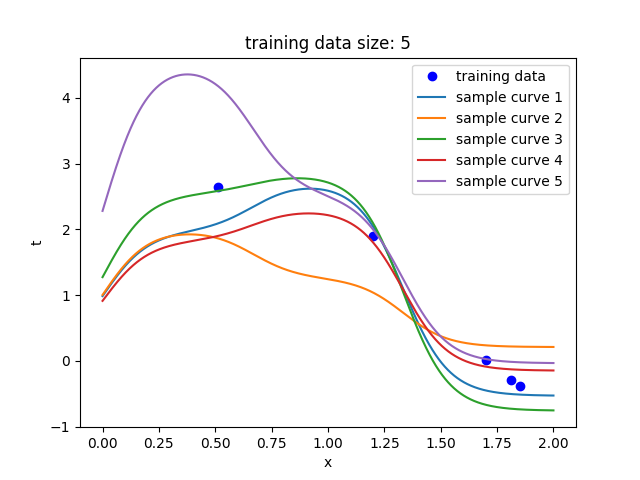
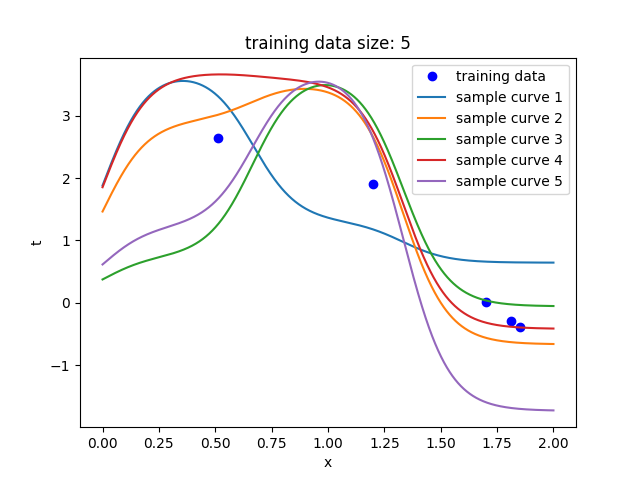
test

diff --git a/bayesian_regression.py b/bayesian_regression.py
@@ -30,7 +30,7 @@ def bayesian_regression(X,T):
     m_N=(S_N@((S_0_inv@m_0)+beta*((X.T@T))))
     return m_N,S_N
 
-N=15
+N=80
 dataX_nor=normalization(dataX[0:N])
 dataX_s=sigmoidal(dataX_nor)
 m_N,S_N=bayesian_regression(dataX_s,dataT[0:N])
@@ -114,7 +114,7 @@ for i in range(10000):
 weight0 = np.array(weight0).reshape(10000,)
 weight1 = np.array(weight1).reshape(10000,)
 weight2 = np.array(weight2).reshape(10000,)
-plt.hist2d(np.array(weight0),np.array(weight1),bins = 50,cmap = 'rainbow')
+plt.hist2d(np.array(weight0),np.array(weight1),range=[[0,5],[-6,6]],bins = 50,cmap = 'rainbow')
 plt.xlabel("w[0]")
 plt.ylabel("w[1]")
 plt.title('weight scatter with training data size: %d' %(N))
